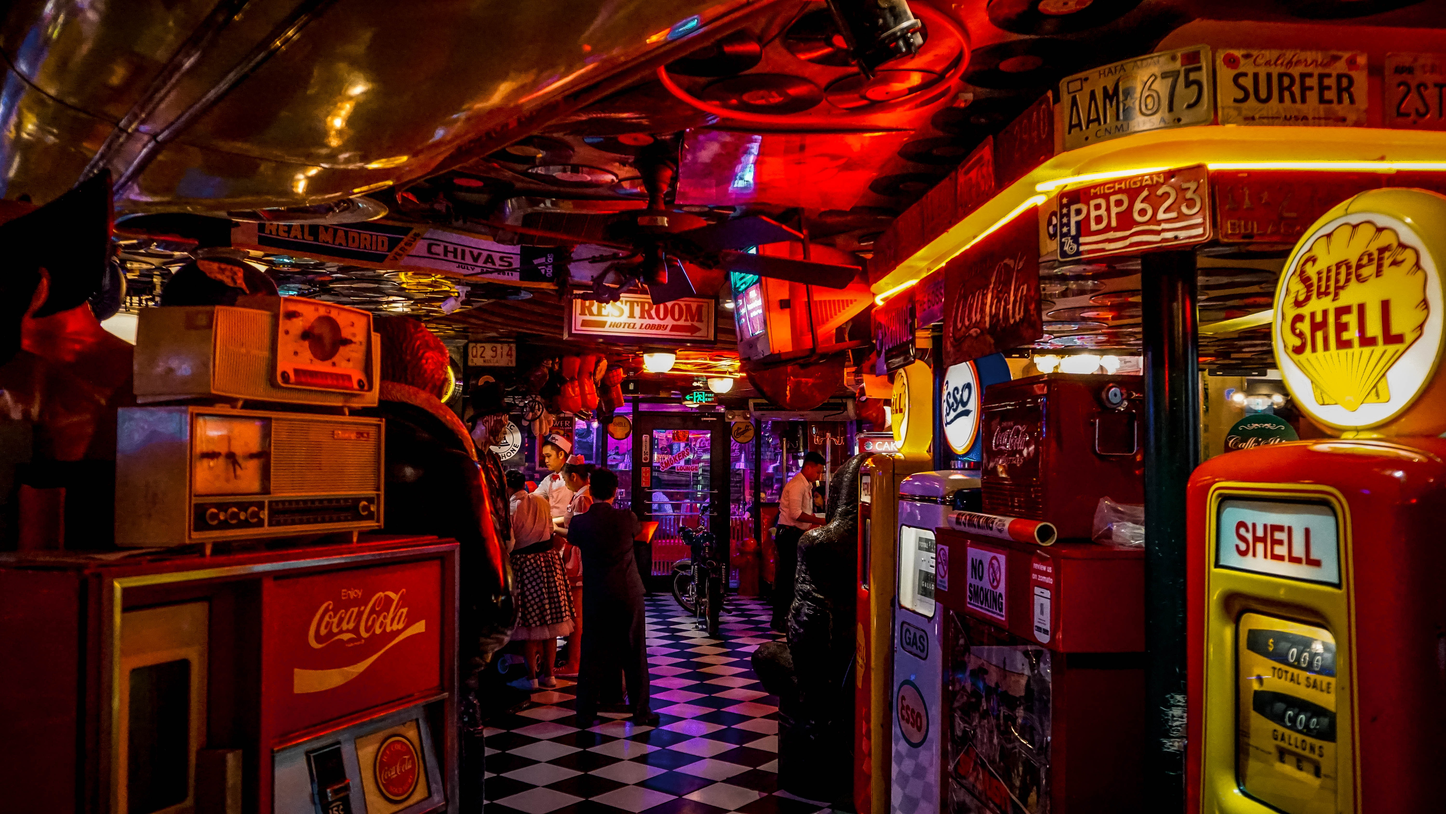
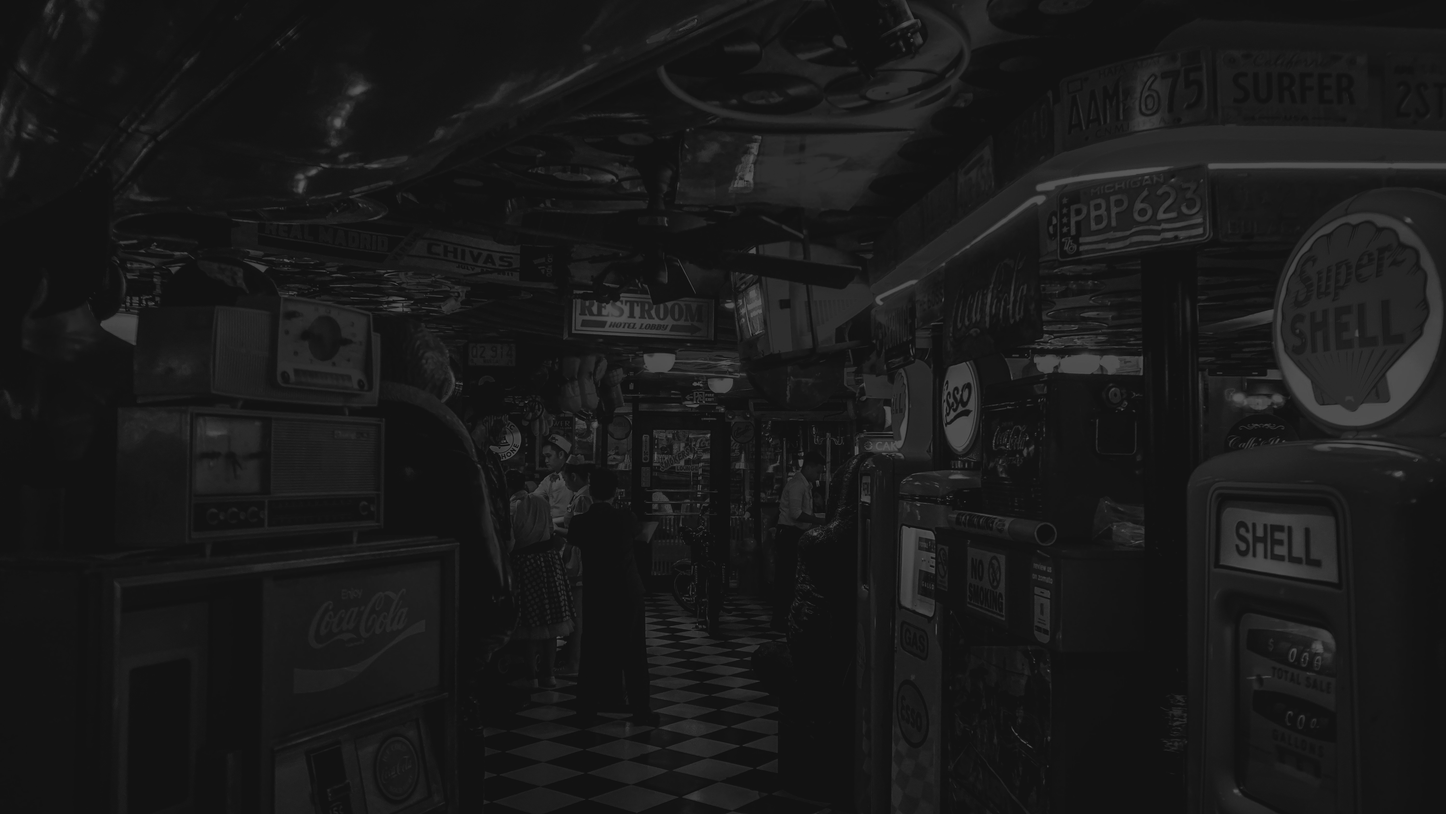
Background image added to landing page

diff --git a/src/app/components/landing-page/landing-page.component.html b/src/app/components/landing-page/landing-page.component.html
@@ -1,46 +1,48 @@
-<div id="landing-page-container" class="container">
-    <div class="row py-5"></div>
-    <div class="row py-5"></div>
-    <div class="row">
-    <div class="col-1"></div>
+<div id="landing-page-wrapper">
+  <div id="landing-page-container" class="container">
+      <div class="row py-5"></div>
+      <div class="row py-5"></div>
+      <div class="row">
+      <div class="col-1"></div>
 
-    <div class="col-10 text-center">
-      <!-- Twitch Icon -->
-      <div id="twitch-icon-container" class="background-gradient-green-1 rounded mx-auto">
-          <img id="twitch-icon" src="assets/images/brand/Generic_Boy.png" />
-      </div>
-
-      <!-- Currently Playing -->
-      <div id="currently-playing-text" class="mt-4">
-          <h3>Im Generic Username is playing: XYZ</h3>
-      </div>
-
-      <!-- Twitch Stats -->
-      <div id="currently-playing-text" class="row mt-4">
-        <div class="col"></div>
-        <!-- Views -->
-        <div class="stats-container col-2 mx-2">
-          <div class="row">
-              <img id="viewer-icon" class="mx-2" src="assets/images/viewers/Eye_White.svg" alt="Eye icon" />
-              <span class="mx-auto">111,111,111</span>
-          </div>
+      <div class="col-10 text-center">
+        <!-- Twitch Icon -->
+        <div id="twitch-icon-container" class="background-gradient-green-1 rounded mx-auto">
+            <img id="twitch-icon" src="assets/images/brand/Generic_Boy.png" />
         </div>
-        <!-- Followers -->
-        <div class="stats-container col-2 mx-2">
+
+        <!-- Currently Playing -->
+        <div id="currently-playing-text" class="mt-4">
+            <h3>Im Generic Username is playing: XYZ</h3>
+        </div>
+
+        <!-- Twitch Stats -->
+        <div id="currently-playing-text" class="row mt-4">
+          <div class="col"></div>
+          <!-- Views -->
+          <div class="stats-container col-2 mx-2">
             <div class="row">
-                <img id="follower-icon" class="my-auto mx-2" src="assets/images/followers/Person_White.svg" alt="Person icon" />
-                <span class="mx-auto">111,111</span>
+                <img id="viewer-icon" class="mx-2" src="assets/images/viewers/Eye_White.svg" alt="Eye icon" />
+                <span class="mx-auto">111,111,111</span>
             </div>
           </div>
-        <div class="col"></div>
+          <!-- Followers -->
+          <div class="stats-container col-2 mx-2">
+              <div class="row">
+                  <img id="follower-icon" class="my-auto mx-2" src="assets/images/followers/Person_White.svg" alt="Person icon" />
+                  <span class="mx-auto">111,111</span>
+              </div>
+            </div>
+          <div class="col"></div>
+        </div>
+
+        <!-- Watch Live -->
+        <button id="watch-live-button" class="foreground-white mt-4">
+          Watch Live
+        </button>
       </div>
 
-      <!-- Watch Live -->
-      <button id="watch-live-button" class="foreground-white mt-4">
-        Watch Live
-      </button>
+      <div class="col-1"></div>
     </div>
-
-    <div class="col-1"></div>
   </div>
 </div>

diff --git a/src/app/components/landing-page/landing-page.component.css b/src/app/components/landing-page/landing-page.component.css
@@ -32,6 +32,11 @@
   width: 100vw;
 }
 
+#landing-page-wrapper {
+  background-image: url("../../../assets/images/background/Arcade.jpg");
+  background-size: 100%;
+}
+
 #viewer-icon {
   height: 25px;
   width: 25px;
